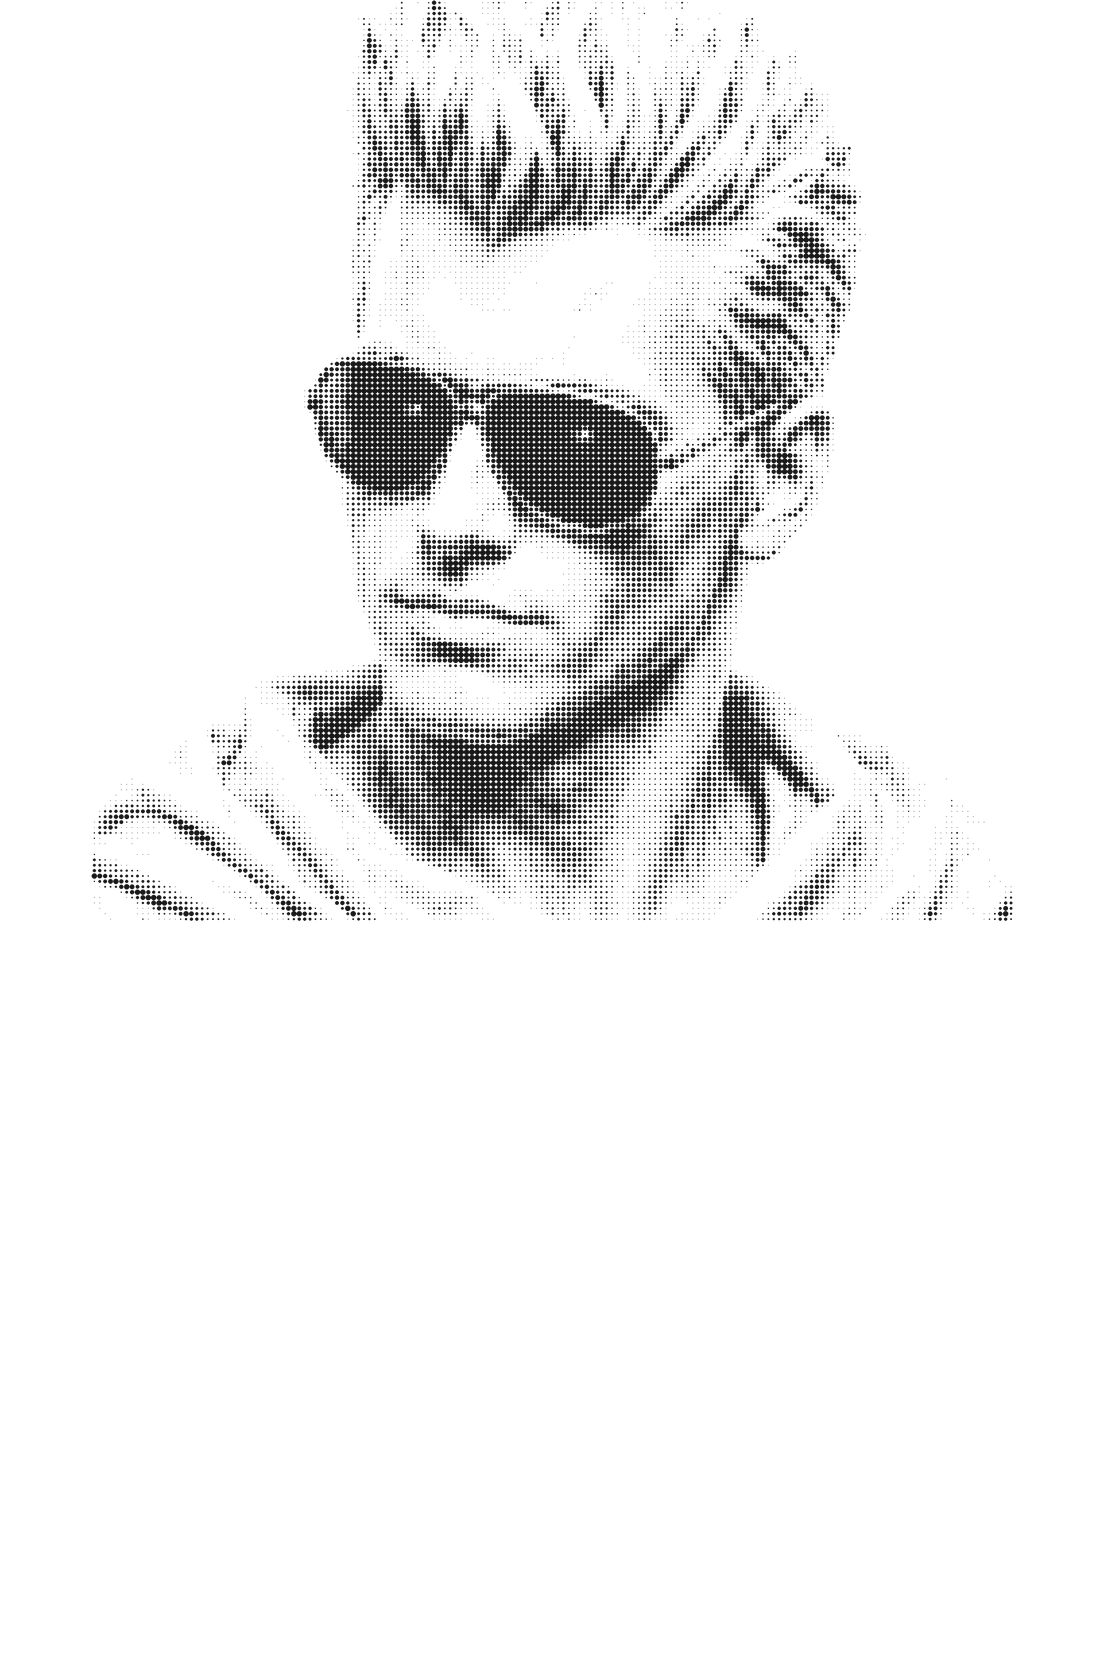
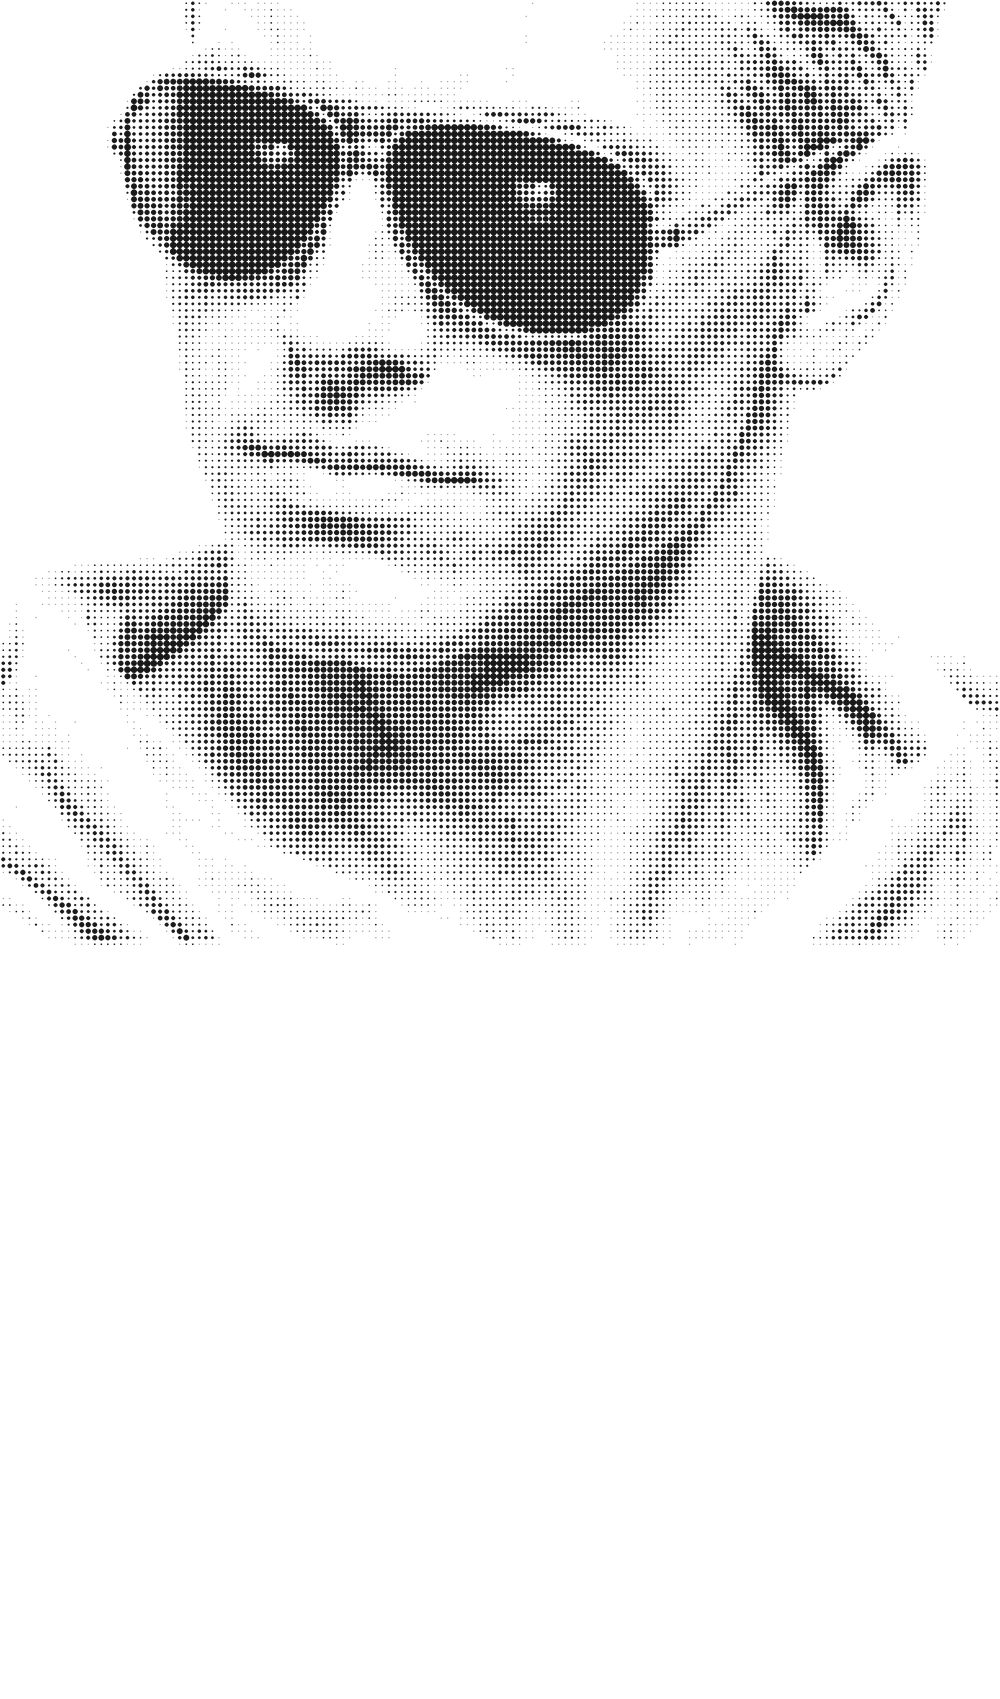
Make halftone statue evident: head flanks content, scrolls with page
- Recompose the halftone so the head fills the frame width with hair
  bleeding off the top and the field extending down, so the face reads
  immediately behind the headline and flanks the column from the sides
- Switch backdrop from fixed to absolute so it scrolls with the page
  (no longer only noticeable once you scroll) and bump opacity to 22%

diff --git a/index.html b/index.html
@@ -80,12 +80,14 @@
       overflow-x: hidden;
     }
 
-    /* Halftone riso-dot portrait of the stoic operator — a faint, fixed
-       poster backdrop. The dots are baked obsidian; opacity keeps it subtle
-       so headline + cards stay crisp on top. */
+    /* Halftone riso-dot portrait of the stoic operator. It scrolls WITH the
+       page (covering the full document) so the head reads immediately at the
+       top and flanks the content column from the sides — rather than a fixed
+       layer you only notice on scroll. Dots are baked obsidian; opacity keeps
+       it a backdrop so headline + cards stay crisp on top. */
     body::before {
       content: "";
-      position: fixed;
+      position: absolute;
       inset: 0;
       z-index: 0;
       pointer-events: none;
@@ -93,7 +95,7 @@
       background-repeat: no-repeat;
       background-position: center top;
       background-size: cover;
-      opacity: 0.18;
+      opacity: 0.22;
     }
 
     .container {